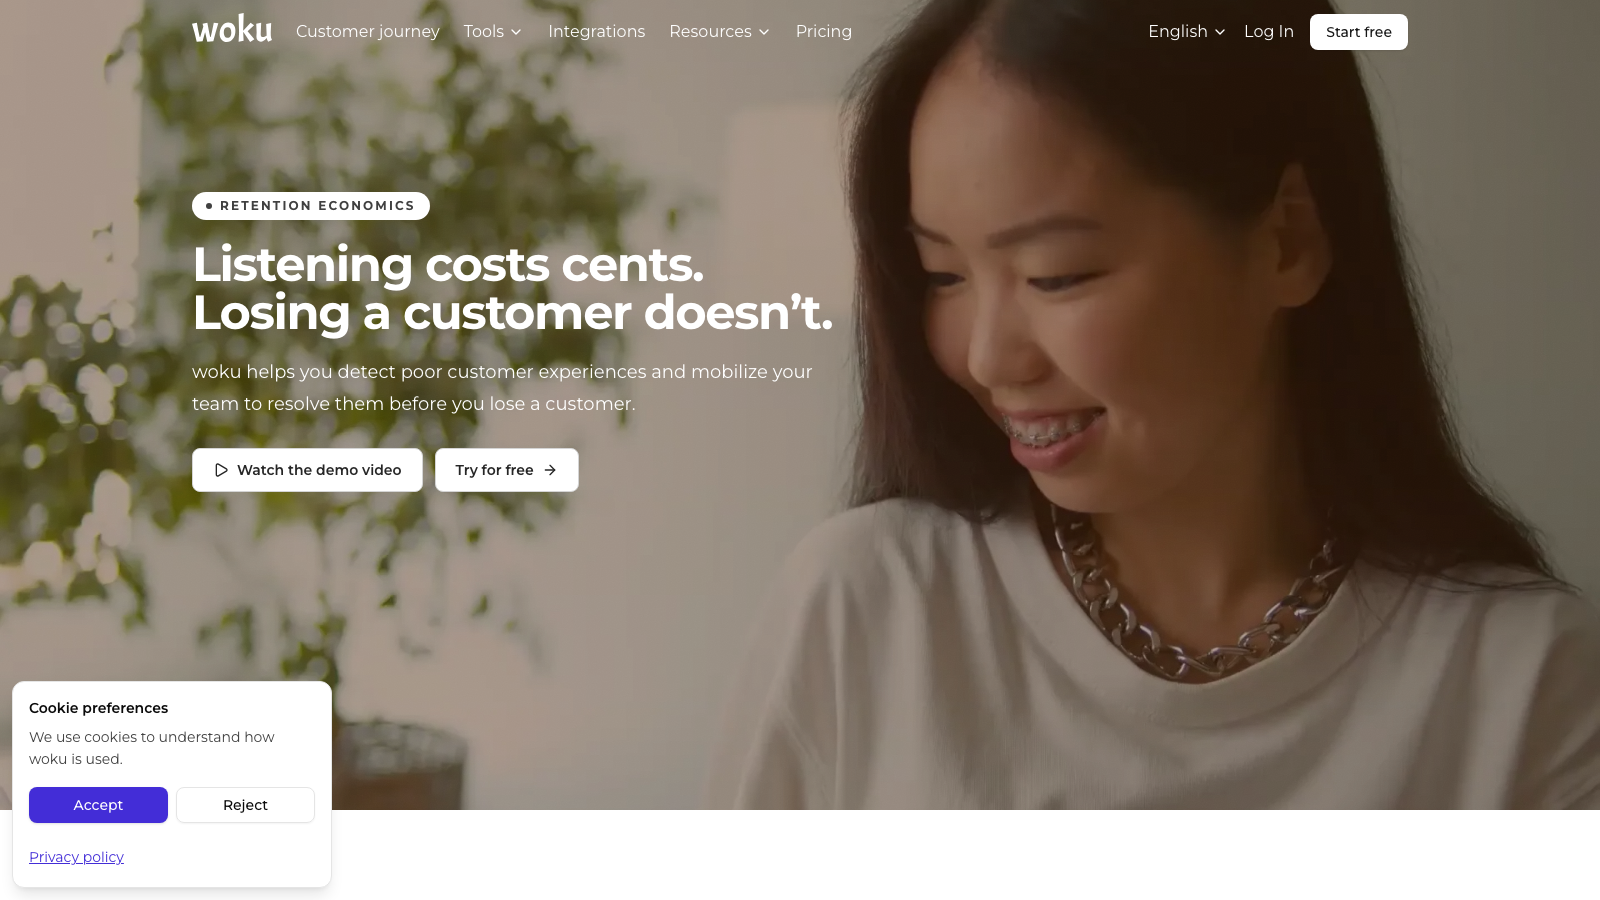
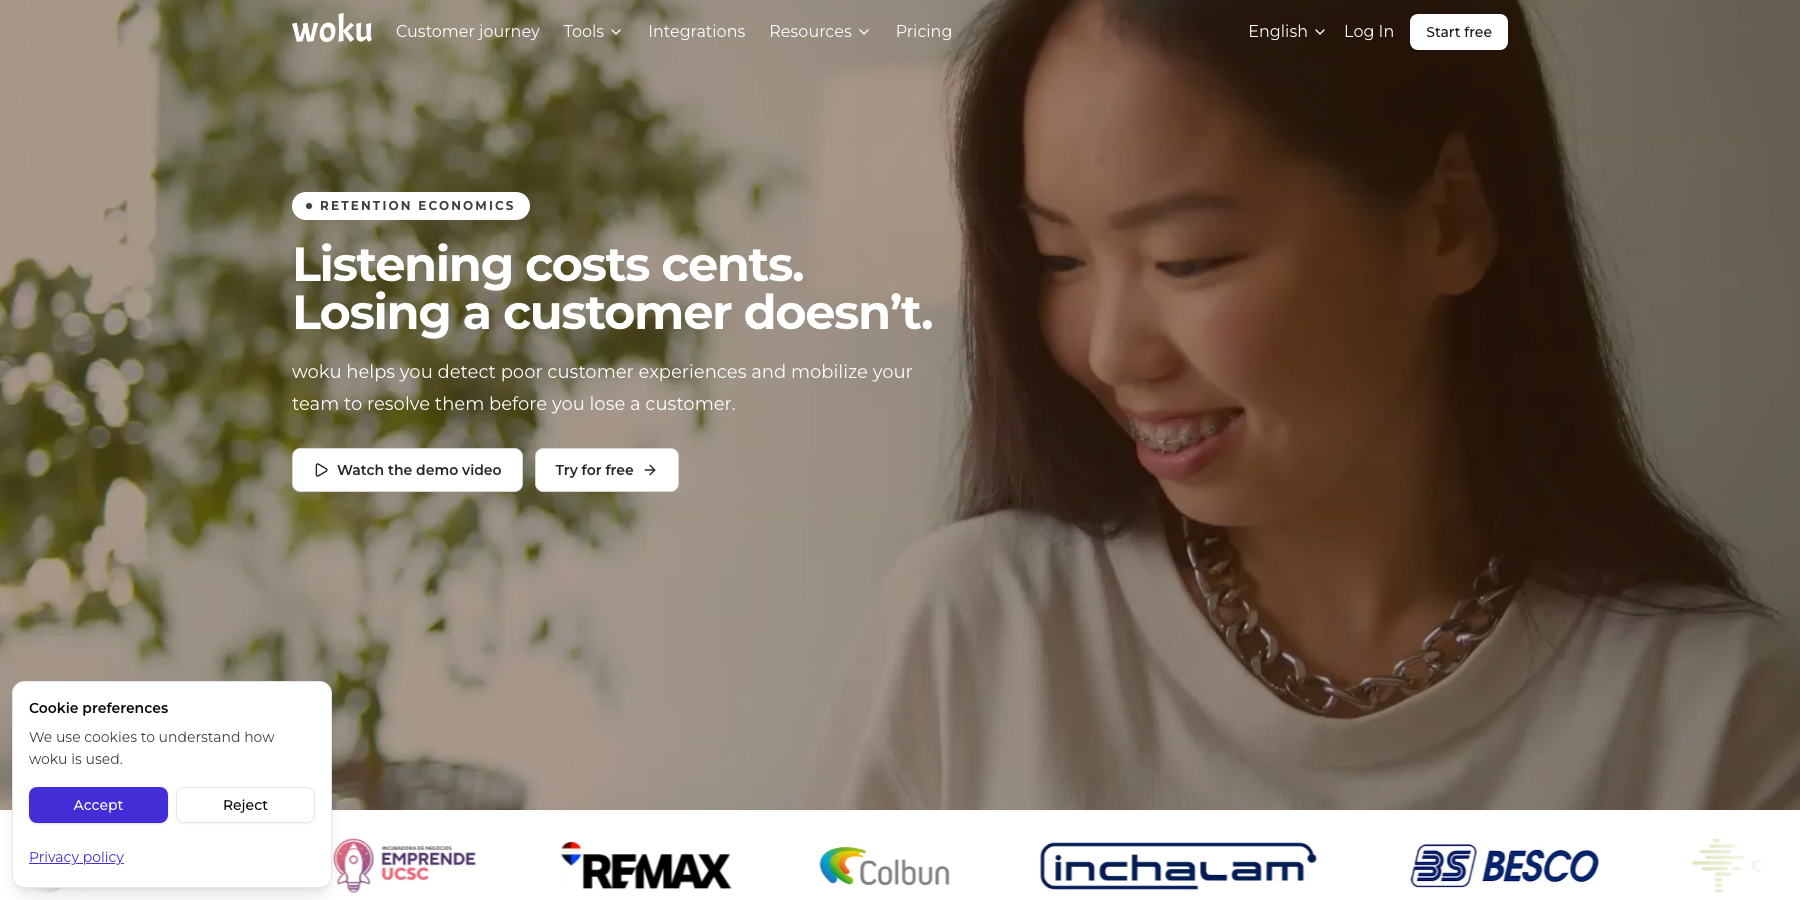
🎨 Reframe Woku project media

diff --git a/src/content/portfolio.ts b/src/content/portfolio.ts
@@ -33,7 +33,7 @@ export type Project = {
   imageCaption: string;
   imageWidth: number;
   imageHeight: number;
-  imagePosition?: 'shift-left';
+  imagePosition?: 'right';
   metrics: Metric[];
   highlights: string[];
   role?: string;
@@ -310,7 +310,7 @@ export const projects: Project[] = [
     imageCaption: 'Current Woku website, captured in September 2026.',
     imageWidth: 1600,
     imageHeight: 900,
-    imagePosition: 'shift-left',
+    imagePosition: 'right',
     metrics: [
       { value: '50+', label: 'customers' },
       { value: '3', label: 'countries: Chile, Peru, and Colombia' },

diff --git a/src/components/patterns/project-card/project-card.tsx b/src/components/patterns/project-card/project-card.tsx
@@ -40,8 +40,8 @@ const ProjectCard = ({ project }: ProjectCardProps) => {
       <AnimatedProjectMedia>
         <Image
           className={`h-full w-full object-cover ${
-            project.imagePosition === 'shift-left'
-              ? 'object-[75%_center]'
+            project.imagePosition === 'right'
+              ? 'object-[100%_center]'
               : 'object-center'
           } saturate-[0.88] transition-transform duration-350 ease-[cubic-bezier(0.16,1,0.3,1)]`}
           src={withBasePath(project.image)}

diff --git a/src/components/patterns/project-card/project-card.test.tsx b/src/components/patterns/project-card/project-card.test.tsx
@@ -11,7 +11,7 @@ describe('ProjectCard', () => {
     expect(screen.getByText('CEO & Co-founder / Product Lead')).toBeVisible();
     expect(screen.getByText('50+')).toBeVisible();
     expect(screen.getByAltText(/Woku website showing/i)).toHaveClass(
-      'object-[75%_center]',
+      'object-[100%_center]',
     );
     expect(
       screen.getByRole('link', { name: 'View case study: Woku' }),
